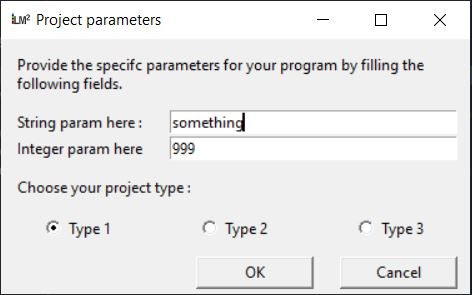
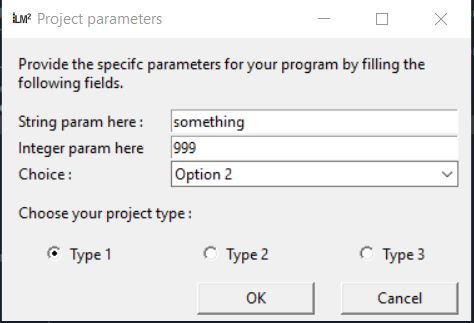
updated example
Include example that can be used as startup file.

diff --git a/example.py b/example.py
@@ -1,0 +1,34 @@
+# Import
+from lm2.inputWindow import inputWindow
+
+# Variable initiliazing
+myStringVar = 'something'
+myIntegerVar = 999
+myChoice = ['Option 1','Option 2','Option 3', 1]
+
+# Window creation
+title = 'Project parameters'
+instructions = 'Provide the specifc parameters for your program by filling the following fields.'
+windowWidth = 375               # Width of the window in pixels
+fields = ['String param here','Integer param here','Choice']           # Number of field entries matching the variables that you want a user input for.
+defaultVal = [myStringVar, myIntegerVar, myChoice]             # Number of default values must fit the number of fields.
+radios = ['Choose your project type :','Type 1','Type 2','Type 3']          # the first string is the radio buttons subtile. For no radio buttons, set to None
+photo = None#['path\picture.png',100,127]                # file path, width, height. If a picture isn't needed, set to None.
+smallFields = False;                # To reduce the width of the input field, set to True.
+myWindow = inputWindow.inputWindow(title,instructions,windowWidth,fields,defaultVal,radios,photo,smallFields)            # With this instruction, the window will appear
+
+# Values assignments if 
+if myWindow.values:
+    [myStringVar, myIntegerVar, myChoice] = myWindow.values
+    
+    projectType = myWindow.radioVal
+    
+    # All values are output as string and must be converted after depending on the expected type. For example :
+    myIntegerVar = int(myIntegerVar)
+    
+    print(myStringVar)
+    print(myIntegerVar)
+    print(myChoice)
+    print(projectType)
+else:
+    print('User canceled')
